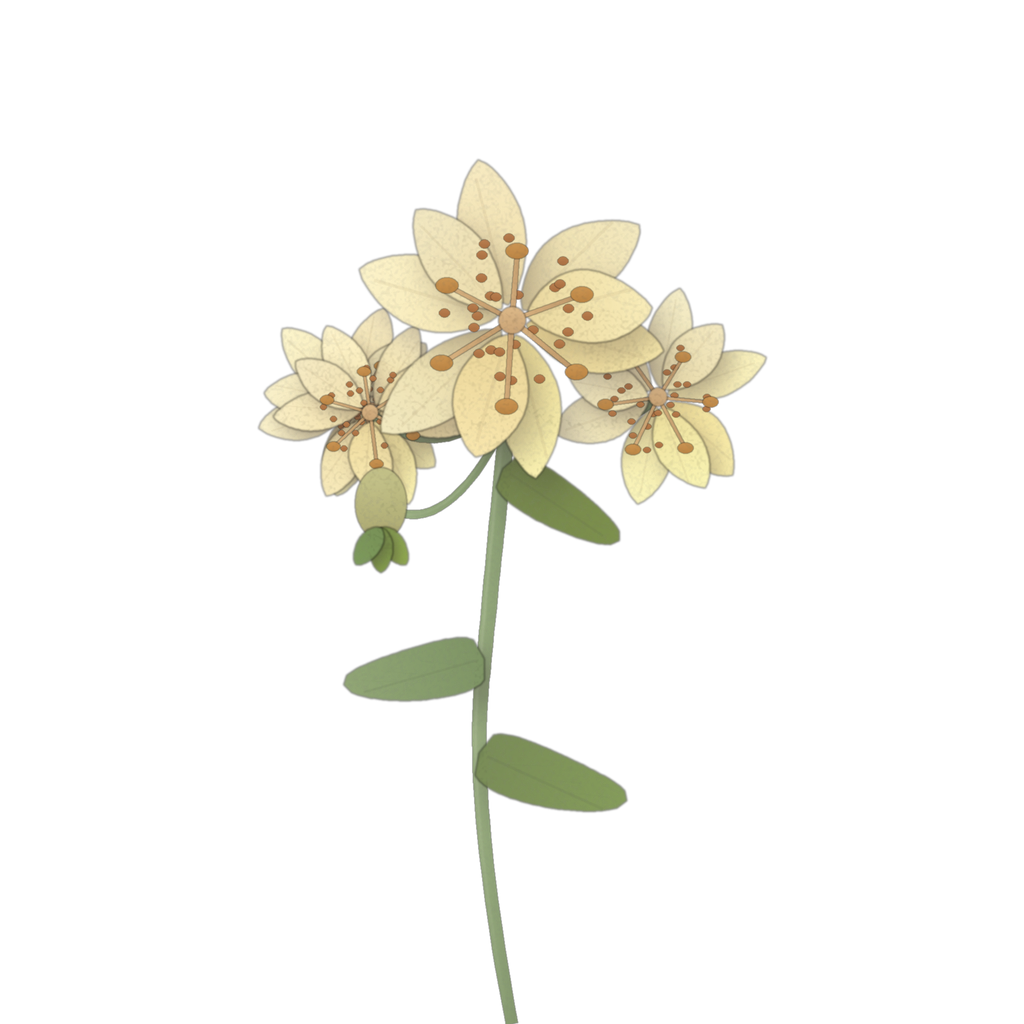
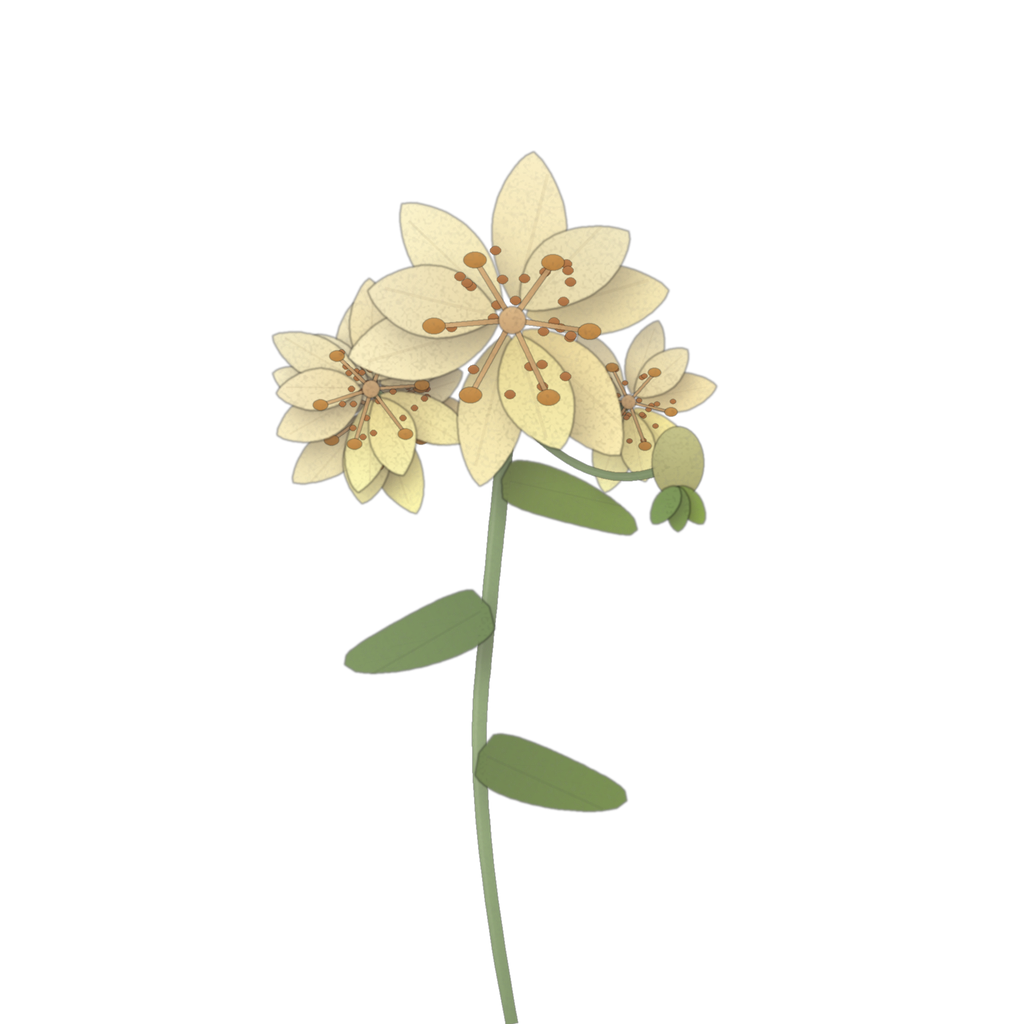
feat: 透過を不均一に、棚のシルエットを差別化、花だけを見られるように
いただいた講評を反映しました。

■ 透過を、そろえない
  「現在は透過が少し均一」という指摘のとおりでした。
  花びらごとに 0.55〜1.30 倍のばらつきを与え、12%の確率で
  一枚だけ 1.6 倍強く光を拾うようにしました。
  全部が同じだけ透けると、光ではなく「加工」に見えるので。

■ 棚のシルエット ── デルフィニウムとかすみ草
  ★★★☆☆ の2種を、外周のかたちで分けました。描き込みは増やしていません。

    デルフィニウム  左右の散らばりを 0.62 倍に絞り、丈を 470→560 に
                    → 「細く高い柱」
    かすみ草        横 1.18 倍・縦 0.66 倍に
                    → 「低く横に広い雲」

  穂ものと雲で輪郭が逆になり、棚サイズでも取り違えなくなりました。

■ 花だけを見られるようにした（一輪画面）
  「今は花よりも情報カードへ視線が移ってしまう」という指摘への対応です。
  品質確認の手順としてだけでなく、遊びとしても要るものだと思いました。
  「一輪の花を、しばらく見つめてしまう」は五つの立ち止まる時間のひとつで、
  紙が出たままだと視線が文字へ行ってしまうためです。

  花にふれると紙が下がり、もう一度ふれると戻ります。
  情報を消すのではなく、**読むのをやめられる**ようにしました。

  実装で二つ間違えて、直しました。
   ・背景（花瓶に戻す）が花の上に乗っていて、花にふれると閉じてしまった
     → 花だけ背景より前に出した
   ・.detail__card に animation: appear が掛かっていて、transform が
     丸ごと上書きされ、紙が下がらなかった
     → is-quiet 側で animation を切ってから transform を渡す
     （このプロジェクトで三度めの取り違えなので、CSSにも書き残した）
   ・一度は背景の暗さもゆるめたが、棚の同じ花が透けて二輪に見えたのでやめた

■ 葉は、優先順位5番目のまま
  「今は視線が自然に花へ向いている。葉を描き込むと視線が散る」に同意です。

Claude-Session: https://claude.ai/code/session_01NKV57SwEiDA72EkGzXeu8N

Changed region(s): [[0.25, 0.125, 0.75, 0.5625], [0.3125, 0.5625, 0.5, 0.6875]]

diff --git a/src/components/FlowerDetail.css b/src/components/FlowerDetail.css
@@ -164,3 +164,65 @@
   font-size: var(--fs-font-xs);
   opacity: 0.85;
 }
+
+
+/* --------------------------------------------------------------------------
+   花だけを見る
+   -------------------------------------------------------------------------- */
+
+/*
+ * 花にふれると、紙が下がって花だけになる。もう一度ふれると戻る。
+ *
+ * 「一輪の花を、しばらく見つめてしまう」は五つの立ち止まる時間のひとつで、
+ * 紙が出たままだと、視線がどうしても文字のほうへ移ってしまう。
+ * 情報を消すのではなく、**読むのをやめられる**ようにする。
+ */
+/*
+ * 花そのものが、押せる場所になった。
+ * 背景（花瓶に戻す）が上に乗っていると、花にふれたつもりで閉じてしまうので、
+ * ここだけは背景より前に出す。
+ */
+.detail__stage {
+  border: 0;
+  background: none;
+  cursor: pointer;
+  /* 上の .detail__stage で padding-top を入れているので、ここでは消さない */
+  z-index: 1;
+  pointer-events: auto;
+}
+
+/*
+ * `.detail__card` は登場時に animation: appear が掛かっている。
+ * animation の transform は同名プロパティの指定を丸ごと上書きするので、
+ * ここで animation を切ってから transform を渡すこと。
+ * （このプロジェクトで三度めの取り違え。忘れないよう書き残す）
+ */
+.detail.is-quiet .detail__card {
+  animation: none;
+  transform: translateY(112%);
+  opacity: 0;
+  pointer-events: none;
+  transition: transform var(--fs-duration-slow) var(--fs-easing-soft),
+    opacity var(--fs-duration-base) var(--fs-easing-soft);
+}
+
+.detail__card {
+  transition: transform var(--fs-duration-slow) var(--fs-easing-rise),
+    opacity var(--fs-duration-base) var(--fs-easing-soft);
+}
+
+/* 紙が下がったぶん、花は少しだけ下りてきて、大きく見える */
+.detail.is-quiet .detail__stage {
+  transform: translateY(6%) scale(1.08);
+  transition: transform var(--fs-duration-slow) var(--fs-easing-soft);
+}
+
+.detail__stage {
+  transition: transform var(--fs-duration-slow) var(--fs-easing-soft);
+}
+
+/*
+ * 背景の暗さは、ゆるめない。
+ * 一度ゆるめてみたが、棚に立っている同じ花が透けて見えて、
+ * 一輪が二輪に見えてしまった。ここは暗いままでよい。
+ */

diff --git a/src/components/FlowerDetail.tsx b/src/components/FlowerDetail.tsx
@@ -4,6 +4,8 @@
  * 情報を読む画面ではなく、花を眺める時間を楽しむ画面。
  */
 
+import { useState } from 'react';
+
 import './FlowerDetail.css';
 import { flower as flowerImage } from '../assets/paths';
 import { flowerById, formatPrice, type Flower } from '../data/flowers';
@@ -26,8 +28,17 @@ export function FlowerDetail({
   onPick,
   onClose,
 }: FlowerDetailProps) {
+  // 紙を下げて、花だけを見られるようにする。
+  // 「一輪の花を、しばらく見つめてしまう」（→ design/16-stillness.md 2章）は
+  // 五つの立ち止まる時間のひとつで、紙が出たままだと視線がそちらへ移ってしまう。
+  const [paperDown, setPaperDown] = useState(false);
+
   return (
-    <div className="detail fade" role="dialog" aria-label={flower.name}>
+    <div
+      className={`detail fade ${paperDown ? 'is-quiet' : ''}`}
+      role="dialog"
+      aria-label={flower.name}
+    >
       <button
         type="button"
         className="detail__backdrop"
@@ -35,7 +46,13 @@ export function FlowerDetail({
         aria-label="花瓶に戻す"
       />
 
-      <div className="detail__stage">
+      {/* 花にふれると紙が下がる。もう一度ふれると戻る。 */}
+      <button
+        type="button"
+        className="detail__stage"
+        onClick={() => setPaperDown((was) => !was)}
+        aria-label={paperDown ? '説明を見る' : '花だけを見る'}
+      >
         <span className="detail__light" aria-hidden />
         <img
           className="detail__flower"
@@ -43,7 +60,7 @@ export function FlowerDetail({
           alt={flower.name}
           draggable={false}
         />
-      </div>
+      </button>
 
       <div className="detail__card panel panel--deep scroll">
         <header className="detail__head">

diff --git a/tools/placeholder_art/flowers.py b/tools/placeholder_art/flowers.py
@@ -254,7 +254,11 @@ def head_dome(layer, c, r, palette: list[RGB], rng, florets: int = 34,
 
 def head_spray(layer, c, r, color: RGB, rng, count: int = 120, dot: float = 0.055,
                spread: tuple[float, float] = (1.0, 1.0), stem_color: RGB | None = None) -> None:
-    """かすみ草。細い枝先に小さな白い花がふわりと散る。"""
+    """かすみ草。細い枝先に小さな白い花がふわりと散る。
+
+    棚では、穂もの（デルフィニウム）と「小花の集まり」として似て見えてしまう。
+    見分けの手がかりは外周だけなので、**横に広く、縦に低い雲**に寄せてある。
+    """
     if stem_color:
         for _ in range(16):
             a = rng.uniform(-1.2, 1.2)
@@ -267,8 +271,9 @@ def head_spray(layer, c, r, color: RGB, rng, count: int = 120, dot: float = 0.05
     for _ in range(count):
         a = rng.uniform(0, 2 * math.pi)
         rad = math.sqrt(rng.uniform(0, 1))
-        x = c[0] + math.cos(a) * rad * r * spread[0]
-        y = c[1] + math.sin(a) * rad * r * spread[1] * 0.9
+        # 横に広く、縦に低く。穂ものと逆の輪郭にして、棚でも取り違えないようにする。
+        x = c[0] + math.cos(a) * rad * r * spread[0] * 1.18
+        y = c[1] + math.sin(a) * rad * r * spread[1] * 0.66
         d = r * dot * rng.uniform(0.7, 1.3)
         col = shade(color, 0.10 - 0.20 * rad)
         for k in range(5):
@@ -278,11 +283,17 @@ def head_spray(layer, c, r, color: RGB, rng, count: int = 120, dot: float = 0.05
 
 def head_spike(layer, c, r, palette: list[RGB], rng, height: float, count: int = 42,
                floret: float = 0.16, petals: int = 5) -> None:
-    """デルフィニウム・スターチス。穂状に上へ伸びる花。"""
+    """デルフィニウム・スターチス。穂状に上へ伸びる花。
+
+    棚の大きさ（画面幅の26%ほど）では、細部は一切見えない。
+    そこで見分けられるかは、**外周のかたち**だけで決まる。
+    かすみ草と混同されないよう、幅を絞って「細く高い柱」に寄せてある。
+    """
     for i in range(count):
         t = i / max(1, count - 1)
         y = c[1] + height * 0.5 - height * t
-        spread = r * (1.0 - 0.72 * t) * rng.uniform(-1.0, 1.0)
+        # 左右への散らばりを抑える（前は r いっぱいまで広がって、雲に見えていた）
+        spread = r * 0.62 * (1.0 - 0.55 * t) * rng.uniform(-1.0, 1.0)
         x = c[0] + spread
         fr = r * floret * (1.15 - 0.5 * t) * rng.uniform(0.8, 1.2)
         col = shade(rng.choice(palette), 0.06 - 0.18 * abs(spread) / max(1.0, r))
@@ -364,13 +375,13 @@ RECIPES: dict[str, Recipe] = {
     "delphinium": Recipe(
         id="delphinium", head="spike", palette=["#6E90D4", "#8AAAE4", "#5C7FC6"],
         accent="#DCE6F7", center="#F2F0E2", stem="#88A06A", leaf="#75904F",
-        head_r=140, stem_w=(13, 18), leaves=2, leaf_len=140, bud=False, lean=7,
-        opts=dict(height=470, count=50, floret=0.18)),
+        head_r=120, stem_w=(13, 18), leaves=2, leaf_len=140, bud=False, lean=7,
+        opts=dict(height=560, count=58, floret=0.20)),
     "gypsophila": Recipe(
         id="gypsophila", head="spray", palette=["#FFFDF7", "#F6F1E6"], accent="#FFFFFF",
-        center="#F0EAD8", stem="#9FB183", leaf="#93A878", head_r=238,
+        center="#F0EAD8", stem="#9FB183", leaf="#93A878", head_r=252,
         stem_w=(9, 13), leaves=1, leaf_len=100, bud=False, lean=6,
-        opts=dict(count=150, dot=0.052)),
+        opts=dict(count=170, dot=0.050)),
     "rose": Recipe(
         id="rose", head="rose", palette=["#EE93AB", "#E67C99"], accent="#FADCE3",
         center="#D96A8C", stem="#82986A", leaf="#5E7C4A", head_r=188,

diff --git a/tools/placeholder_art/paint.py b/tools/placeholder_art/paint.py
@@ -310,7 +310,13 @@ def draw_petal(layer: Image.Image, center: tuple[float, float], angle: float,
     ImageDraw.Draw(mask).polygon(shape, fill=255)
 
     lit = lit_amount(angle)
-    through = through_amount(angle) * translucency
+    # 透けかたは、そろえない。
+    # 実際の花は、外側の数枚だけ強く透けたり、一枚だけ妙に光を拾ったりする。
+    # 全部が同じだけ透けると、光ではなく「加工」に見える。
+    uneven = rng.uniform(0.55, 1.30)
+    if rng.random() < 0.12:
+        uneven *= 1.6          # ときどき、一枚だけ強く光を拾う
+    through = through_amount(angle) * translucency * uneven
 
     base_c = shade(jitter(base, rng, 5), -0.05 + 0.09 * lit)
     tip_c = shade(jitter(tip_color, rng, 7), 0.04 + 0.13 * lit)
